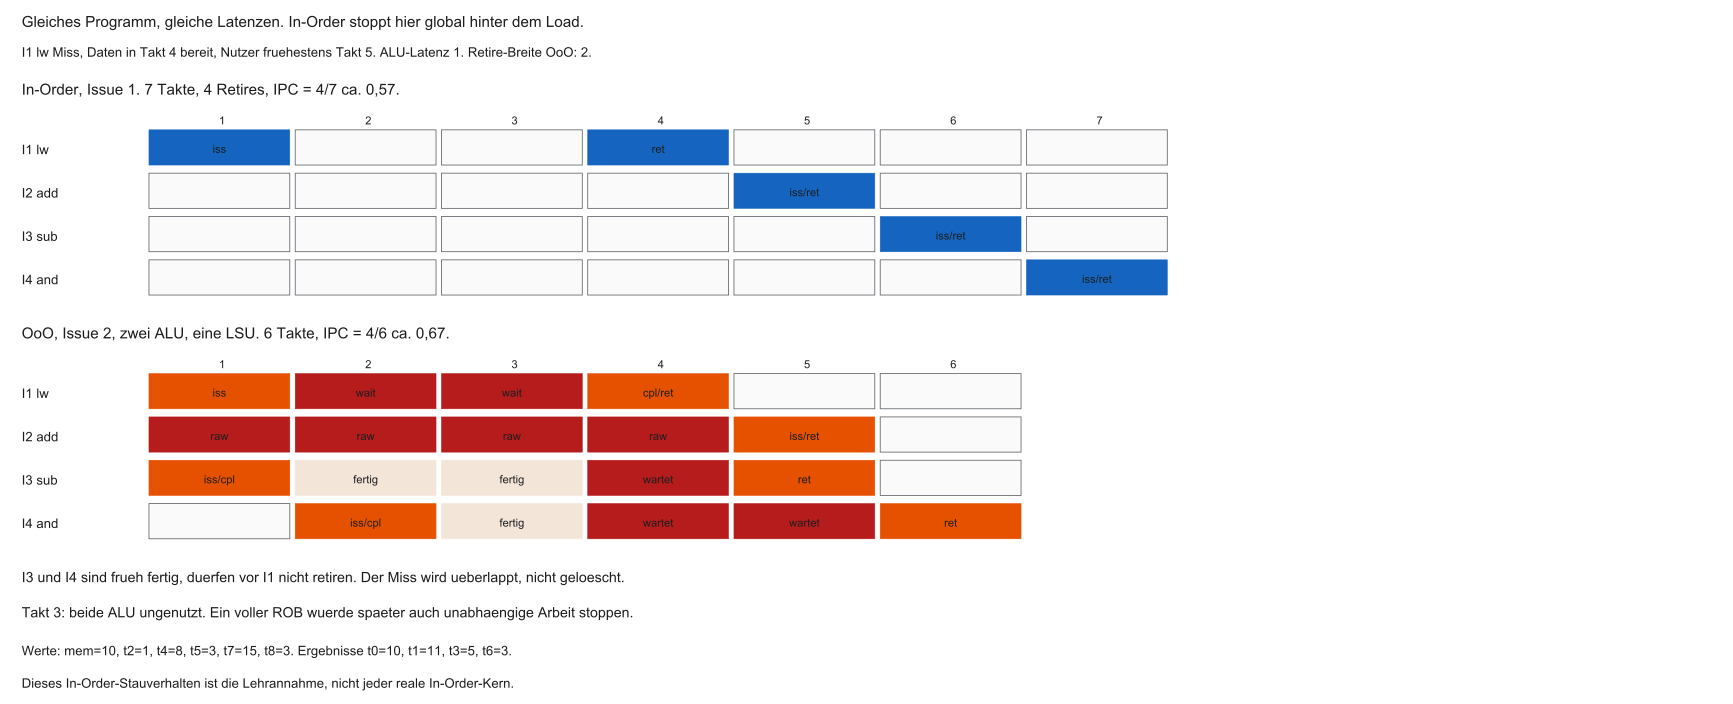
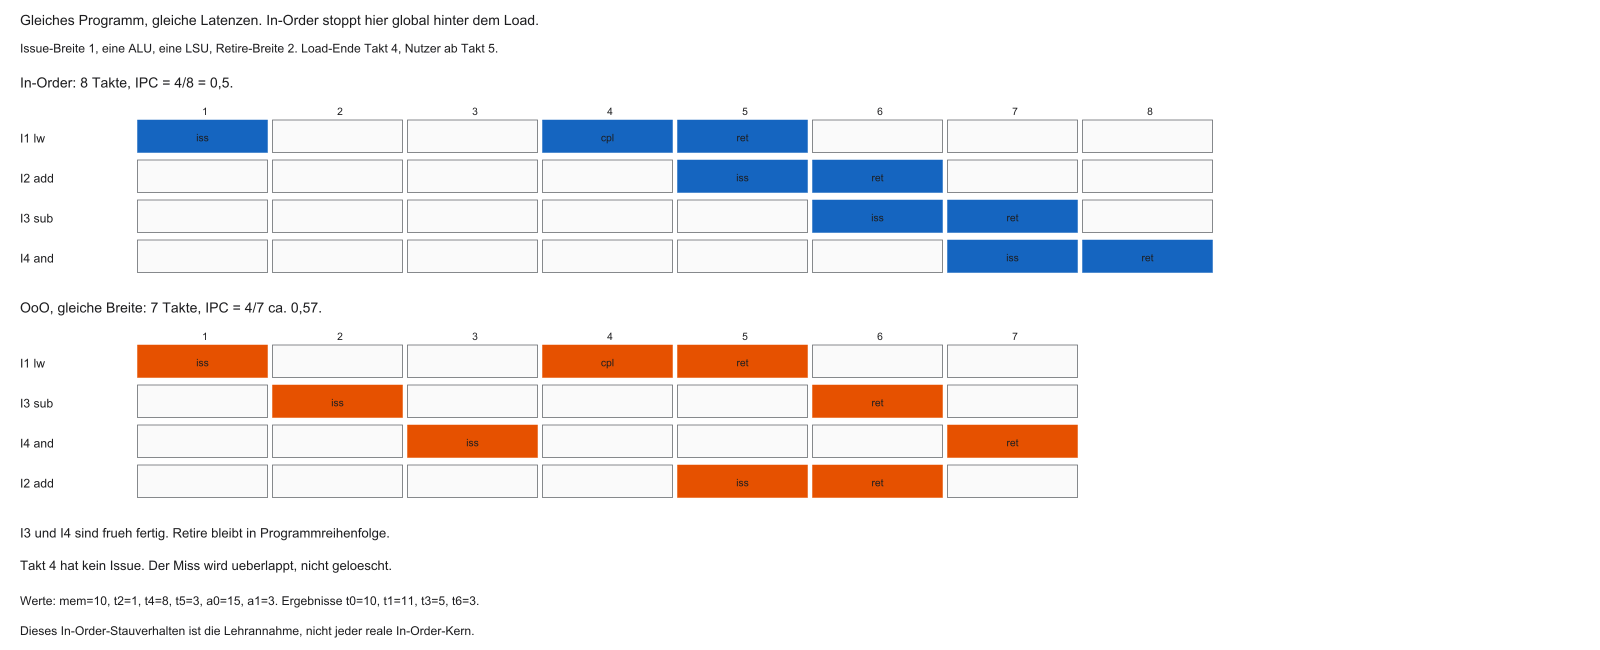
Erweitere die Lehrnotizen zur CPU-Architektur und korrigiere RAW-Stall, Out-of-Order-Fenster und das PRF-Modell.

diff --git a/assets/figures/07_moderne_cpu_architekturen/build_figures.py b/assets/figures/07_moderne_cpu_architekturen/build_figures.py
@@ -67,7 +67,7 @@ def fig_a():
             if cyc < 9:
                 cell(p, x0 + cyc * bw + 2, y0 + i * bh + 2, bw - 6, bh - 6, name, C[i], 11)
     p.append(T(16, 250, "Stationaer ab Takt 5: ein WB je Takt. Davor Fuellung, danach Leerung.", 15))
-    p.append(T(16, 278, "Ein RAW-Stall ohne Forwarding zwischen I1 und I2: +1 Takt, 10 Takte, CPI = 2,0.", 15, ERR))
+    p.append(T(16, 278, "ALU-RAW ohne Forwarding, WB und ID im selben Takt: +2 Takte, 11 Takte, CPI = 2,2.", 15, ERR))
     p.append(T(16, 310, "IPC = retired ISA-Befehle / Takte des Fensters = 5/9. Nicht aus einem einzelnen WB schliessen.", 14))
     p.append(T(16, 342, "CPI = 1/IPC nur fuer denselben Zeitraum und dieselbe Zaehlbasis.", 14, MUTED, "400"))
     p.append(T(16, 374, "T = N * CPI / f gilt bei konstanter Frequenz. Ein Compiler kann N aendern.", 14, MUTED, "400"))
@@ -162,26 +162,26 @@ def fig_d():
 def fig_e():
     p = svg(1280, 520)
     p.append(T(16, 20, "Gleiches Programm, gleiche Latenzen. In-Order stoppt hier global hinter dem Load.", 15))
-    p.append(T(16, 42, "I1 lw Miss, Daten in Takt 4 bereit, Nutzer fruehestens Takt 5. ALU-Latenz 1. Retire-Breite OoO: 2.", 13, MUTED, "400"))
-    p.append(T(16, 70, "In-Order, Issue 1. 7 Takte, 4 Retires, IPC = 4/7 ca. 0,57.", 15, C[0]))
+    p.append(T(16, 42, "Issue-Breite 1, eine ALU, eine LSU, Retire-Breite 2. Load-Ende Takt 4, Nutzer ab Takt 5.", 13, MUTED, "400"))
+    p.append(T(16, 70, "In-Order: 8 Takte, IPC = 4/8 = 0,5.", 15, C[0]))
     rows = [
-        ("I1 lw", ["iss", "", "", "ret", "", "", ""]),
-        ("I2 add", ["", "", "", "", "iss/ret", "", ""]),
-        ("I3 sub", ["", "", "", "", "", "iss/ret", ""]),
-        ("I4 and", ["", "", "", "", "", "", "iss/ret"]),
+        ("I1 lw", ["iss", "", "", "cpl", "ret", "", "", ""]),
+        ("I2 add", ["", "", "", "", "iss", "ret", "", ""]),
+        ("I3 sub", ["", "", "", "", "", "iss", "ret", ""]),
+        ("I4 and", ["", "", "", "", "", "", "iss", "ret"]),
     ]
-    draw_grid(p, rows, 96, C[0])
-    p.append(T(16, 250, "OoO, Issue 2, zwei ALU, eine LSU. 6 Takte, IPC = 4/6 ca. 0,67.", 15, C[1]))
+    draw_grid(p, rows, 96, C[0], cycles=8)
+    p.append(T(16, 250, "OoO, gleiche Breite: 7 Takte, IPC = 4/7 ca. 0,57.", 15, C[1]))
     rows2 = [
-        ("I1 lw", ["iss", "wait", "wait", "cpl/ret", "", ""]),
-        ("I2 add", ["raw", "raw", "raw", "raw", "iss/ret", ""]),
-        ("I3 sub", ["iss/cpl", "fertig", "fertig", "wartet", "ret", ""]),
-        ("I4 and", ["", "iss/cpl", "fertig", "wartet", "wartet", "ret"]),
+        ("I1 lw", ["iss", "", "", "cpl", "ret", "", ""]),
+        ("I3 sub", ["", "iss", "", "", "", "ret", ""]),
+        ("I4 and", ["", "", "iss", "", "", "", "ret"]),
+        ("I2 add", ["", "", "", "", "iss", "ret", ""]),
     ]
-    draw_grid(p, rows2, 276, C[1], cycles=6)
-    p.append(T(16, 430, "I3 und I4 sind frueh fertig, duerfen vor I1 nicht retiren. Der Miss wird ueberlappt, nicht geloescht.", 14, ERR))
-    p.append(T(16, 456, "Takt 3: beide ALU ungenutzt. Ein voller ROB wuerde spaeter auch unabhaengige Arbeit stoppen.", 14))
-    p.append(T(16, 484, "Werte: mem=10, t2=1, t4=8, t5=3, t7=15, t8=3. Ergebnisse t0=10, t1=11, t3=5, t6=3.", 13, MUTED, "400"))
+    draw_grid(p, rows2, 276, C[1], cycles=7)
+    p.append(T(16, 430, "I3 und I4 sind frueh fertig. Retire bleibt in Programmreihenfolge.", 14, ERR))
+    p.append(T(16, 456, "Takt 4 hat kein Issue. Der Miss wird ueberlappt, nicht geloescht.", 14))
+    p.append(T(16, 484, "Werte: mem=10, t2=1, t4=8, t5=3, a0=15, a1=3. Ergebnisse t0=10, t1=11, t3=5, t6=3.", 13, MUTED, "400"))
     p.append(T(16, 508, "Dieses In-Order-Stauverhalten ist die Lehrannahme, nicht jeder reale In-Order-Kern.", 13, MUTED, "400"))
     save("ooo.svg", p)
 
@@ -206,7 +206,7 @@ def draw_grid(p, rows, y, col, cycles=7):
 def fig_f():
     p = svg(1200, 460)
     p.append(T(16, 20, "PRF-Modell. Map-Update beim Rename ist nicht der Commit. x0 bekommt kein Ziel.", 15))
-    p.append(T(16, 42, "Startmap: t0=P0 t1=P1=4 t2=P2=1 t3=P3 t4=P4=2 t5=P5=9 t6=P6=1. Frei: P10, P11, P13.", 13, MUTED, "400"))
+    p.append(T(16, 42, "Start: x0=P0, t0=P7. Frei mindestens P10 bis P14, Reihenfolge P10, P13, P11, P14, P12.", 13, MUTED, "400"))
     headers = ["Instr", "log. Q", "phys. Q", "neues Ziel", "Map danach", "Wert"]
     xs = [16, 200, 340, 500, 680, 900]
     for x, h in zip(xs, headers):
